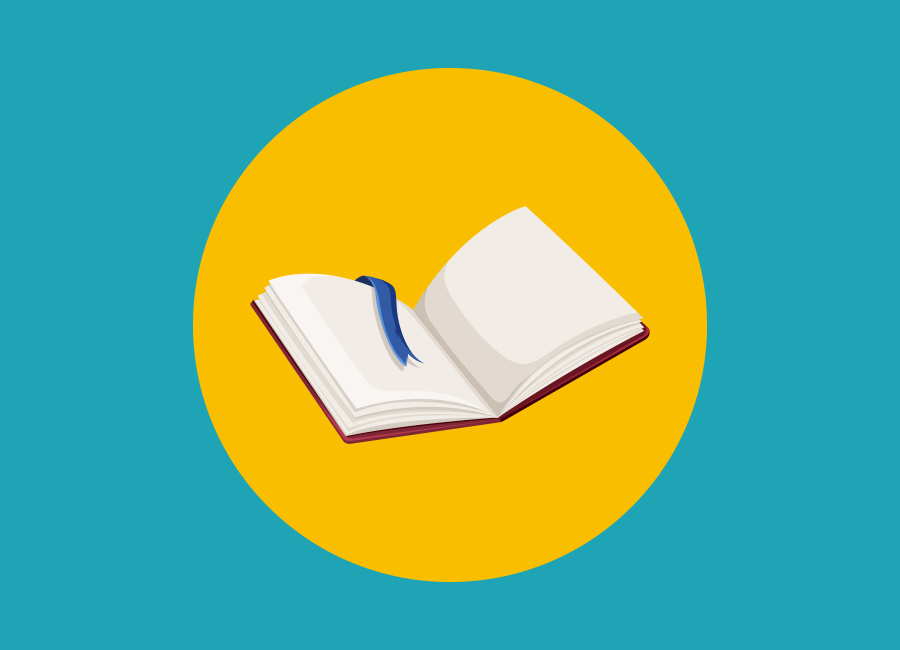
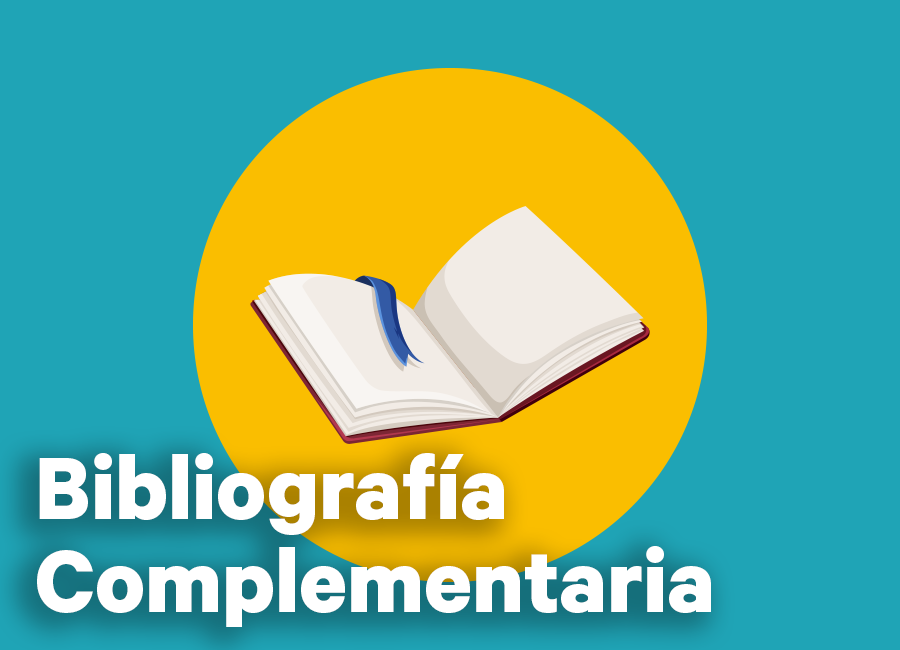
otro

Changed region(s): [[0.0, 0.6769, 0.8089, 1.0]]

diff --git a/css/styles.css b/css/styles.css
@@ -11522,3 +11522,10 @@ html {
   width: 100%;
   height: 100%;
 }
+
+.titulo-imgn{
+  position: absolute;
+  margin-top: 250px;
+  margin-left: 50px;
+  z-index: 2000;
+}
